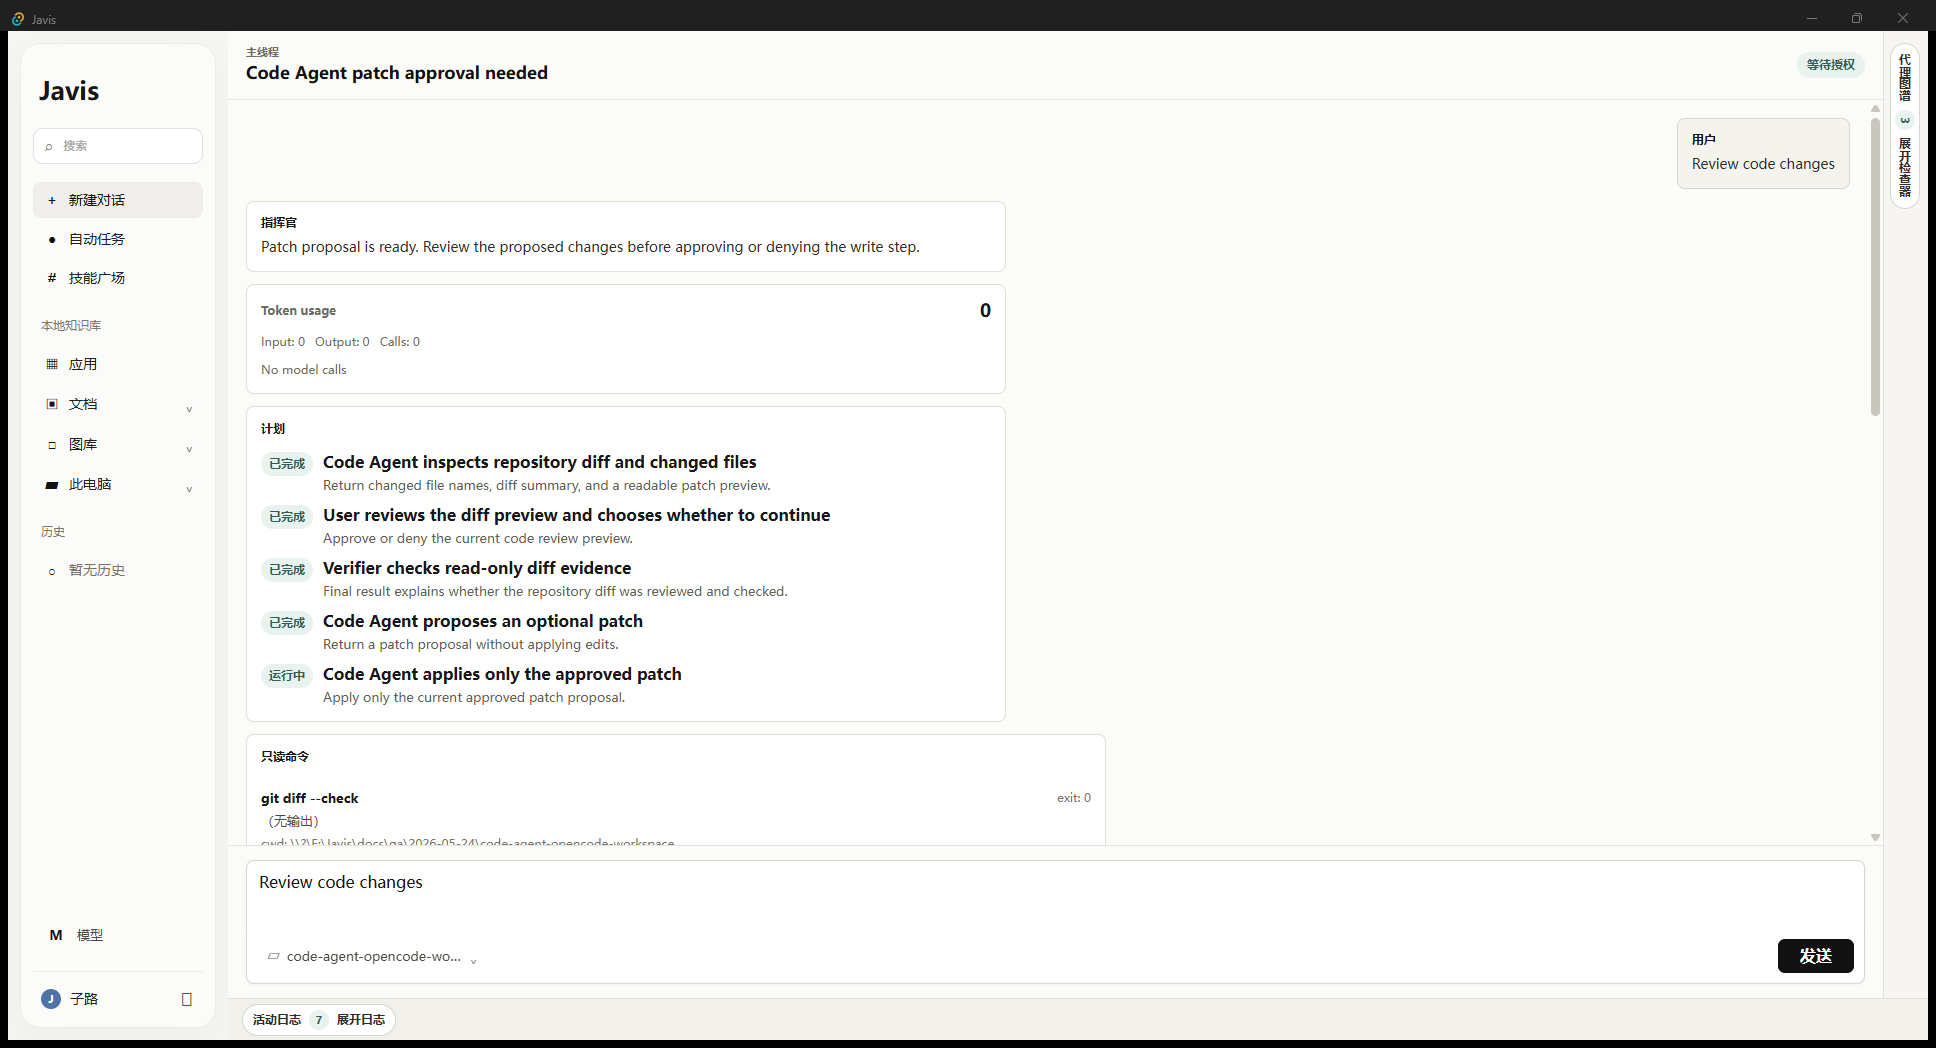
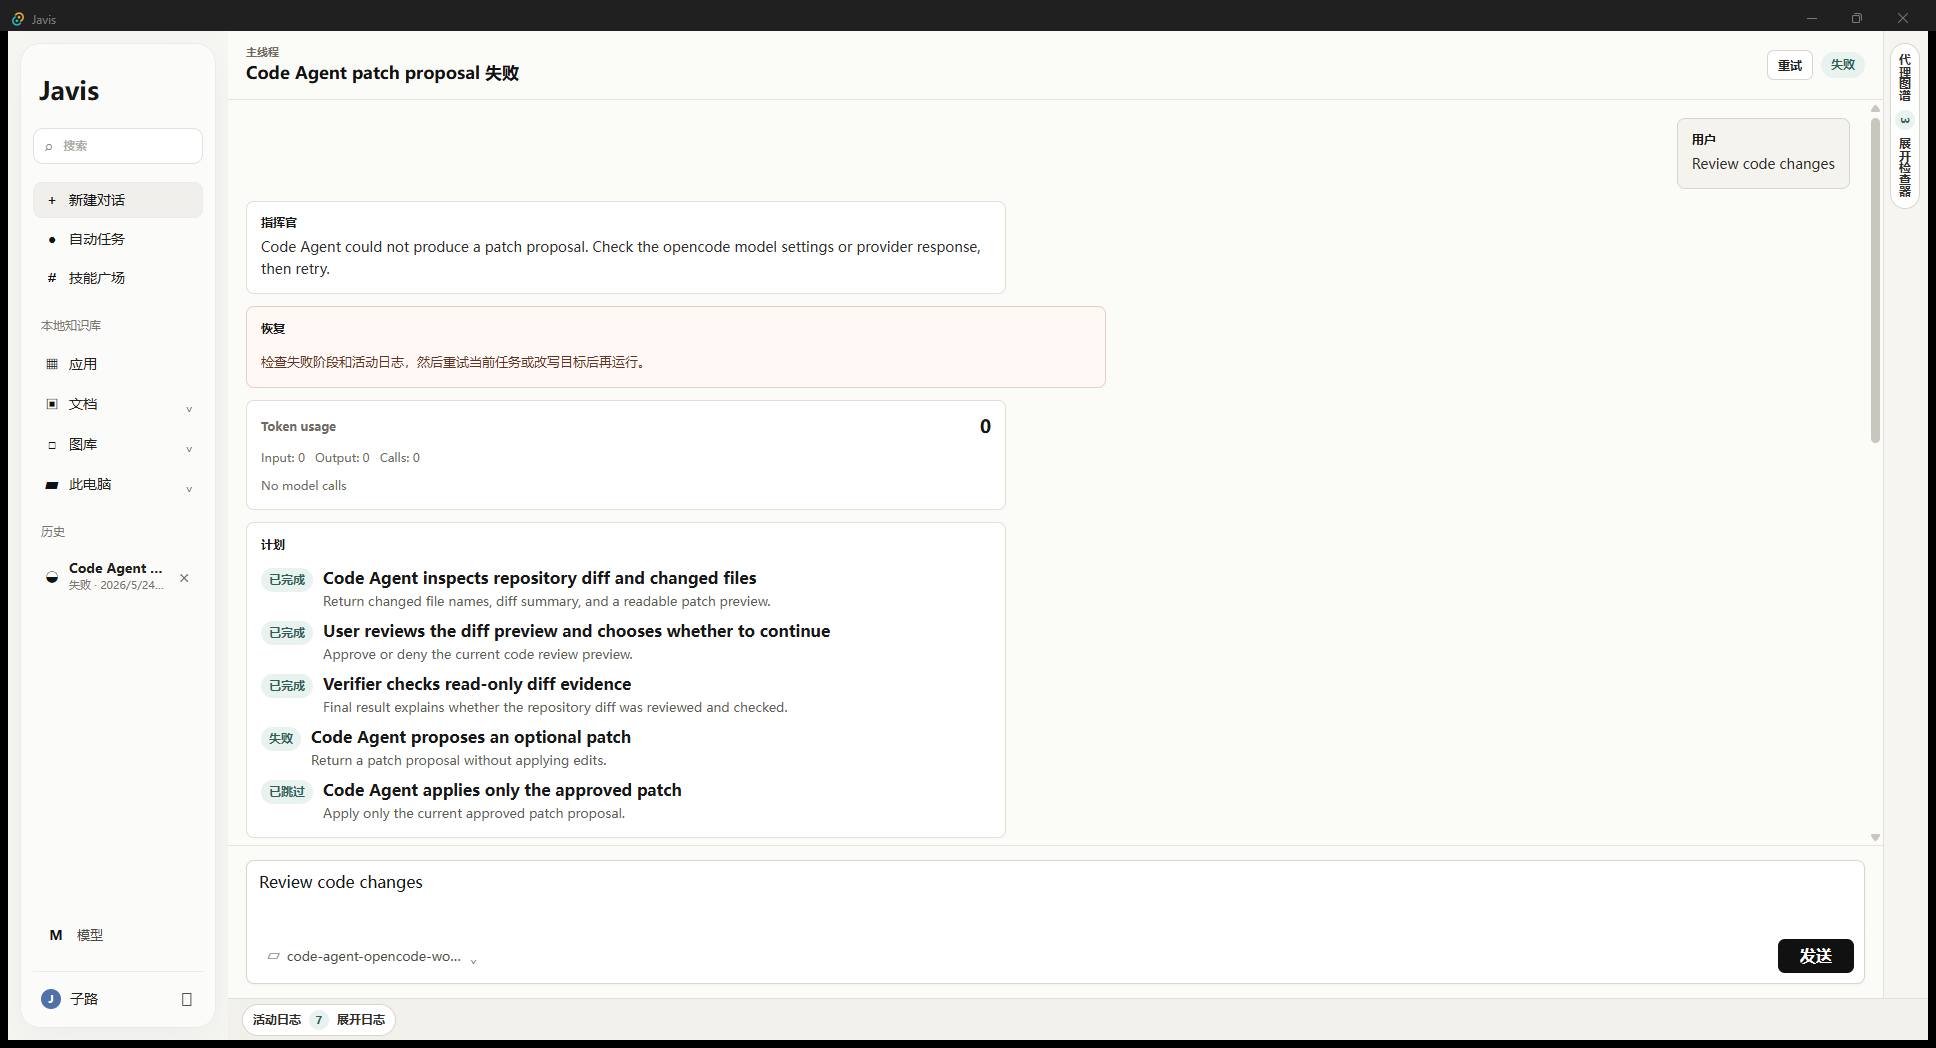
Run live Code Agent QA through secret reference

diff --git a/apps/desktop/src-tauri/src/lib.rs b/apps/desktop/src-tauri/src/lib.rs
@@ -563,7 +563,11 @@ fn propose_code_edit(
     mut request: CodeProposeEditRequest,
 ) -> Result<CodeProposedEdit, String> {
     let workspace = resolve_workspace_path(Some(request.workspace_path.clone()))?;
-    hydrate_model_api_key_secret(&app, &mut request)?;
+    if !env_flag_enabled("JAVIS_QA_MODE")
+        || env::var_os("JAVIS_CODE_PROPOSAL_FIXTURE_PATH").is_none()
+    {
+        hydrate_model_api_key_secret(&app, &mut request)?;
+    }
     propose_code_edit_with_opencode(&workspace, request)
 }
 

diff --git a/docs/qa/2026-05-24/notes.md b/docs/qa/2026-05-24/notes.md
@@ -38,10 +38,10 @@ Command status:
 - `pnpm --filter @javis/desktop tauri build`: pass
 - `workspace-restart-qa.ps1`: pass
 - `code-agent-opencode-qa.ps1`: pass for fixture proposal deny/apply in the
-  current rerun. Earlier live DeepSeek-compatible provider evidence reached
-  proposal generation but did not return a parseable patch proposal before any
-  write approval was requested. Live smoke is now blocked until QA can inject
-  temporary credentials without writing them to localStorage.
+  current rerun. Live DeepSeek-compatible provider smoke now injects temporary
+  credentials through the native secret reference path instead of localStorage;
+  the provider reached proposal generation but still did not return a parseable
+  patch proposal before any write approval was requested.
 - `pdf-durable-approval-qa.ps1`: pass for restored PDF approval approve,
   restored deny, and expired-record fail-closed behavior after packaged app
   restart.
@@ -68,12 +68,14 @@ Evidence:
 - `18-code-agent-approved-before-approve.png`: approval applies only the
   proposed `src/message.txt` patch and records a successful post-apply
   `git diff --check`.
-- `20-code-agent-live-proposal-failed.png`: earlier live DeepSeek-compatible
-  settings reached the opencode proposal phase and failed before write
-  approval, with no file application attempted.
+- `20-code-agent-live-proposal-failed.png`: live DeepSeek-compatible settings
+  reached the opencode proposal phase through native secret-reference credential
+  injection and failed before write approval, with no file application
+  attempted.
 - `code-agent-opencode-qa-output.txt`: records the current fixture deny/apply
-  pass. Live provider credentials were not present in this rerun; future live
-  runs require a non-localStorage credential injection path.
+  pass plus the live DeepSeek-compatible provider result
+  `provider-hardening-needed`. The output records provider/model/status but not
+  the temporary API key.
 - `21-pdf-durable-approval-restored.png`: packaged app relaunch restores a
   pending PDF organization approval from `javis.approvalRecords.v1`.
 - `22-pdf-durable-approval-approved.png`: approving the restored card completes
@@ -106,9 +108,9 @@ Evidence:
 Manual QA verdict: pass for workspace selection, recent-workspace restart
 persistence, fixture-backed Code Agent proposal/apply safety, durable PDF
 approval restore approve/deny/expiry, and durable Code Patch approval restore
-approve/apply/deny/expiry. Live DeepSeek-compatible provider QA remains open
-until credentials can be injected without localStorage and the hardened
-fallback path is rerun.
+approve/apply/deny/expiry. Live DeepSeek-compatible provider QA now exercises
+native secret-reference credential injection, but the provider proposal still
+needs prompt/parser hardening before live approved apply can be considered.
 
 Notes:
 
@@ -122,8 +124,10 @@ Notes:
   WebView DOM.
 - `code-agent-opencode-qa.ps1` creates a temporary local git repository under
   the QA folder, launches the packaged app with WebView2 remote debugging,
-  drives both preview and confirmed-write permission buttons, and deletes the
-  temporary repository after the pass.
+  drives both preview and confirmed-write permission buttons, injects live
+  credentials through the native model API key secret command when live
+  environment variables are present, and deletes the temporary repository after
+  the pass.
 - `pdf-durable-approval-qa.ps1` creates a temporary PDF under Downloads,
   injects a scoped pending durable approval record, restarts the packaged app,
   exercises approve, deny, and expired-record paths, verifies the file effects

diff --git a/docs/PRODUCT_READINESS.md b/docs/PRODUCT_READINESS.md
@@ -34,8 +34,10 @@ Do not call Javis a complete usable product while any of these are true:
   providers. Packaged-app fixture QA passes for proposal denial and approved
   patch application, and the native proposal runner now has timeout,
   OpenAI-compatible fallback, fenced/pretty JSON parsing, and approved-file
-  binding hardening. Live DeepSeek-compatible smoke still needs to be rerun
-  with temporary credentials before this blocker can close.
+  binding hardening. Live DeepSeek-compatible smoke now runs with temporary
+  credentials injected through the native secret-reference path, but the
+  provider still fails before producing a parseable patch proposal, so live
+  approved apply remains covered only by fixture QA.
 - Model API keys are no longer persisted in browser local storage. The desktop
   stores only provider/model/base URL plus a key reference there, writes the key
   through native commands, and on Windows protects the secret with DPAPI before
@@ -61,10 +63,12 @@ Do not call Javis a complete usable product while any of these are true:
 
 The project has a verified MVP foundation. The next stage is product completion:
 
-1. Rerun the live DeepSeek-compatible Code Agent proposal smoke with temporary
-   credentials, then decide whether approved live apply is safe to exercise or
-   should remain covered only by fixture QA.
-2. Expand QA from MVP scenarios to complete-product workflows and add release
+1. Harden the real-provider Code Agent proposal prompt/parser path until the
+   live DeepSeek-compatible smoke produces a parseable proposal without write
+   approval.
+2. Keep live approved apply disabled until real-provider proposal output is
+   stable; continue covering apply through fixture QA.
+3. Expand QA from MVP scenarios to complete-product workflows and add release
    signing/versioning/rollback documentation.
 
 `docs/MVP_STATUS.md` remains useful as a baseline acceptance record, but it is

diff --git a/docs/ROADMAP.md b/docs/ROADMAP.md
@@ -55,9 +55,11 @@ Status: complete for the 2026-05-23 QA pass.
   implemented.
 - Integrate opencode as an optional backend. Initial proposal-only adapter is
   implemented, uses desktop-managed model settings, has DeepSeek/custom
-  OpenAI-compatible fallback and proposal parser hardening, and still needs
-  live provider smoke plus credential-store hardening. Packaged-app fixture QA
-  covers proposal denial and approved patch application.
+  OpenAI-compatible fallback, proposal parser hardening, and Windows DPAPI
+  secret-reference credential storage. Packaged-app fixture QA covers proposal
+  denial and approved patch application. Live DeepSeek-compatible smoke reaches
+  proposal generation but still needs prompt/parser hardening before it returns
+  a parseable patch proposal.
 - Treat opencode as an extensible kernel:
   - use MCP for memory, search, indexing, and other external capabilities
   - evaluate OpenCode plugins such as FullAutoAgent-style workflow plugins and
@@ -75,8 +77,9 @@ Status: complete for the 2026-05-23 QA pass.
   verification, opencode-backed proposed-edit contract, confirmed-write apply
   approval, desktop model configuration, and a local approved-patch apply
   command are implemented. Fixture opencode proposal/apply QA passes. Live
-  DeepSeek-compatible proposal smoke needs to be rerun after fallback hardening
-  before the real-provider QA blocker can close.
+  DeepSeek-compatible proposal smoke now runs through native secret-reference
+  credential injection and fails closed before write approval when the provider
+  does not return a parseable patch proposal.
 - Add tests around rejected dangerous commands and approved edit application.
 - Add QA for inspect-only, diff preview, approved edit, denied edit, and failed
   verification states.

diff --git a/docs/LEARNING_AND_IMPLEMENTATION_PLAN.md b/docs/LEARNING_AND_IMPLEMENTATION_PLAN.md
@@ -22,7 +22,7 @@
 | Code Patch proposal | opencode 只负责 proposal，Javis 已验证 patch hash、changed files、workspace 内路径，并通过 native `git apply` 写入；native apply 已在审批时记录 approved files 的当前内容 hash，并在应用前拒绝 stale file。 | proposal 仍是 `changedFiles + patch` 形态，还没有 `baseGitHead`、结构化 hunk 和 apply 前 dry-run 校验；Code Patch 跨重启 restore/apply 仍未开放。 |
 | Rust/native guard | PDF 和 Code Patch 都在 Rust 层做关键路径校验，PDF approval 具有一次性消费语义。 | approval binding、path、hash 校验已开始共享，但 task/tool binding、通用 preview hash 与更多 write command 迁移仍未完成。 |
 | 模型配置与密钥 | 桌面端能配置 provider/model/apiKey/baseUrl；local storage 只保存 provider/model/baseUrl/key reference，旧存储 key 会在加载时清理，Windows native secret store 使用 DPAPI 保护 key，proposal command 按 reference 单次读取。 | 仍需 live provider QA 证明跨重启可用，并决定非 Windows 的 Stronghold/OS credential 路线。 |
-| QA 证据 | 已有 packaged-app fixture QA 覆盖 Code Agent proposal deny 和 approve/apply，研究和工作区重启也有证据。 | live DeepSeek provider smoke 需要在 fallback hardening 后用临时凭据重跑；durable approval 跨重启 QA 尚未建立。 |
+| QA 证据 | 已有 packaged-app fixture QA 覆盖 Code Agent proposal deny 和 approve/apply，live DeepSeek provider smoke 已通过 native secret reference 注入临时凭据并到达 proposal 阶段，研究和工作区重启也有证据。 | live DeepSeek provider 仍未返回可解析 patch proposal；下一步需要 real-provider prompt/parser hardening，live approved apply 继续只由 fixture QA 覆盖。 |
 
 因此，后续不应该先扩展更多 Agent 能力，而应该按下面的实施顺序补齐审批、proposal 和 native guard 三条安全主线。
 